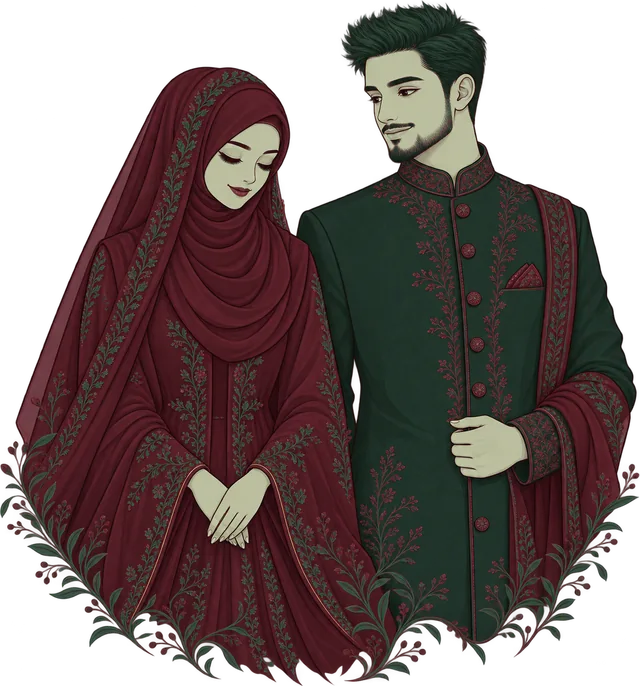
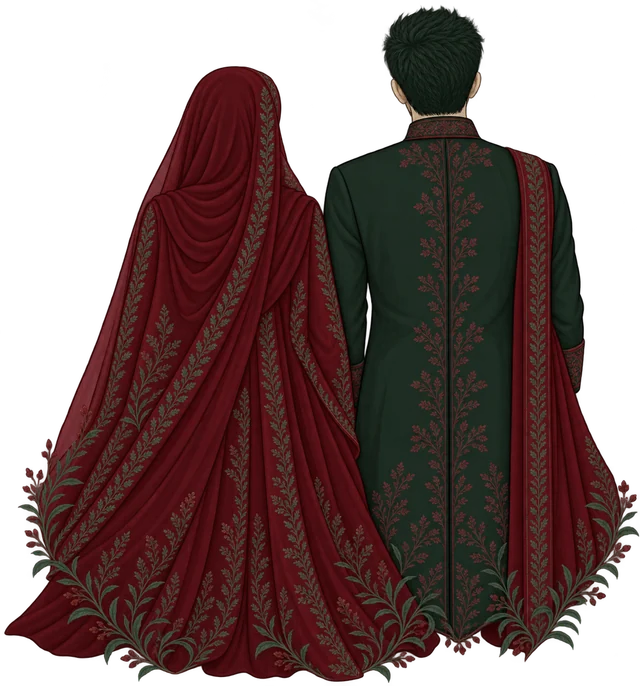
Add rear-view couple, dark sienna velvet and corner floral with optional music support

diff --git a/design/social-preview.html b/design/social-preview.html
@@ -1,4 +1,4 @@
-<!doctype html><html lang="en"><meta charset="utf-8"><style>
+<!DOCTYPE html><html lang="en"><head><meta charset="utf-8"><style>
  @font-face{font-family:Invitation;src:url(../public/fonts/cormorant-garamond-latin.woff2);font-weight:300 700}@font-face{font-family:Details;src:url(../public/fonts/inter-latin.woff2);font-weight:100 900}
- :root{--forest:#183e34;--sage:#b8c8ad;--paper:#edf1e8;--paper-deep:#e2e9dc;--maroon:#4d2030;--maroon-soft:#80515d;--maroon-line:#b28f97}*{box-sizing:border-box}body{margin:0;width:1200px;height:630px;background:var(--paper);color:var(--maroon);text-align:center;overflow:hidden;font-family:Invitation;position:relative}body:before{content:'';position:absolute;inset:15px;border:1px solid #b28f97}body:after{content:'';position:absolute;inset:22px;border:1px solid #d3dbcc}.hero-arch{position:absolute;left:270px;top:34px;width:660px;height:630px;color:var(--maroon-line);opacity:.65}.floral{position:absolute;width:275px;height:500px;top:45px}.left{left:-20px;transform:scaleX(-1)}.right{right:-20px}.content{position:relative;padding-top:130px}.eyebrow{font-family:Details;font-size:12px;letter-spacing:3px;margin:0 0 25px;color:var(--forest)}h1{font-weight:400;font-size:113px;line-height:1;margin:0;letter-spacing:-4px}h1 span{font-size:55px;vertical-align:9px;padding:0 12px;color:var(--forest)}.ornament{width:140px;height:28px;margin:27px auto 21px;color:var(--maroon-soft)}.date{font-size:44px;line-height:1.1;margin:0}.location{font-family:Details;font-size:11px;letter-spacing:2px;color:var(--forest);margin-top:18px}.footer{position:absolute;bottom:40px;width:100%;font-family:Details;font-size:9px;letter-spacing:3px;color:var(--forest)}
- @font-face{font-family:Names;src:url('../public/fonts/great-vibes-latin.woff2');font-weight:400}h1{font-family:Names;letter-spacing:0;font-size:104px}h1 span{font-size:50px}</style><svg class="hero-arch" viewBox="0 0 760 780" preserveAspectRatio="none" fill="none" aria-hidden="true"><path d="M29 779V316c0-99 48-142 142-172C282 108 344 67 380 13c36 54 98 95 209 131 94 30 142 73 142 172v463" stroke="currentColor" stroke-width="1"></path><path d="M40 779V319c0-93 44-135 135-164C286 119 346 81 380 33c34 48 94 86 205 122 91 29 135 71 135 164v460" stroke="currentColor" stroke-width=".5"></path><path d="m380 0 5 6-5 6-5-6 5-6Zm-368 370 17 17 17-17-17-17-17 17Zm702 0 17 17 17-17-17-17-17 17Z" fill="var(--paper)" stroke="currentColor" stroke-width=".7"></path></svg><svg class="floral left" viewBox="0 0 300 530" fill="none" aria-hidden="true"><g stroke="var(--forest)" stroke-width="1" stroke-linecap="round" stroke-linejoin="round"><path d="M21 531C100 438 65 327 125 241S233 100 237 0M77 399c48-30 78-66 99-113M99 304C77 259 57 229 26 204M147 208c-28-44-35-90-30-139M186 147c46-7 70-26 92-57M208 105c-24-37-34-69-30-105M92 352c39-10 72-22 104-46"></path><g fill="var(--sage)" fill-opacity=".76"><path d="M90 368c-30-12-42-39-40-71 29 15 41 40 40 71ZM83 408c25-35 51-39 81-43-14 27-40 42-81 43ZM102 302c-7-31 10-57 28-75 4 35-6 59-28 75ZM129 240c-30-8-51-29-52-56 29 7 47 26 52 56ZM164 182c13-32 35-45 66-49-13 31-33 43-66 49ZM200 118c-27-7-42-27-45-54 26 8 43 26 45 54ZM226 57c9-25 28-41 53-46-11 27-29 40-53 46ZM72 445c-33-5-48-21-54-46 27 5 45 21 54 46ZM117 321c23-2 44-12 59-35-28-1-46 11-59 35Z"></path></g><g fill="var(--paper-deep)"><path d="M115 104c-19-5-33-21-41-41 22 4 36 19 41 41ZM119 138c15-17 26-38 21-66-17 18-24 40-21 66ZM188 69c-19-10-30-28-31-50 21 10 31 26 31 50ZM248 112c6-25 21-40 42-47-4 24-18 39-42 47Z"></path></g></g><g transform="translate(132 207) rotate(-18)" stroke="var(--maroon)" stroke-width=".9"><path d="M0-15C-40-62-70-24-33 2c-52 6-41 51 1 36-13 48 32 64 43 18 28 41 67 13 34-20 50-6 43-51-3-39C58-47 14-62 0-15Z" fill="var(--maroon-soft)"></path><path d="M0-9C-28-36-44-13-22 5c-30 5-23 29 2 22-6 29 20 35 25 9 20 21 41 4 21-15 28-6 20-32-3-22C31-28 9-34 0-9Z" fill="var(--paper)"></path><path d="M1 3c-12-13-23 0-13 8-11 11 2 23 10 10 13 10 24-3 12-11C21-1 9-9 1 3Z" fill="var(--maroon-soft)"></path><path d="M-31-6-10 6m-23 27 22-14m18 28-4-24m33 12L13 18m30-25L16 7M8-32 5-8" opacity=".7"></path><circle cy="12" r="3" fill="var(--maroon)"></circle></g><g transform="translate(220 80) rotate(28) scale(.66)" stroke="var(--maroon)" stroke-width="1.1"><path d="M0-15C-40-62-70-24-33 2c-52 6-41 51 1 36-13 48 32 64 43 18 28 41 67 13 34-20 50-6 43-51-3-39C58-47 14-62 0-15Z" fill="var(--paper-deep)"></path><path d="M0-9C-28-36-44-13-22 5c-30 5-23 29 2 22-6 29 20 35 25 9 20 21 41 4 21-15 28-6 20-32-3-22C31-28 9-34 0-9Z" fill="var(--sage)"></path><path d="M1 3c-12-13-23 0-13 8-11 11 2 23 10 10 13 10 24-3 12-11C21-1 9-9 1 3Z" fill="var(--paper)"></path><circle cy="12" r="4" fill="var(--maroon)"></circle></g><g transform="translate(54 350) rotate(-18) scale(.61)" stroke="var(--maroon)" stroke-width="1.1"><path d="M0-15C-40-62-70-24-33 2c-52 6-41 51 1 36-13 48 32 64 43 18 28 41 67 13 34-20 50-6 43-51-3-39C58-47 14-62 0-15Z" fill="var(--paper-deep)"></path><path d="M0-9C-28-36-44-13-22 5c-30 5-23 29 2 22-6 29 20 35 25 9 20 21 41 4 21-15 28-6 20-32-3-22C31-28 9-34 0-9Z" fill="var(--maroon-soft)"></path><circle cy="12" r="5" fill="var(--paper)"></circle></g><g stroke="var(--maroon-soft)" stroke-width=".8"><path d="M150 276c35-15 63-18 87-8M182 269c1-15 7-25 19-28m-5 27c8-10 17-14 26-12M75 453c14 7 25 10 39 7M100 460c1-12 6-19 13-22"></path><ellipse cx="204" cy="240" rx="4" ry="8" transform="rotate(28 204 240)" fill="var(--maroon-line)"></ellipse><ellipse cx="228" cy="257" rx="8" ry="4" transform="rotate(-15 228 257)" fill="var(--maroon-line)"></ellipse><ellipse cx="241" cy="270" rx="7" ry="4" transform="rotate(15 241 270)" fill="var(--maroon-line)"></ellipse><ellipse cx="117" cy="435" rx="3" ry="6" transform="rotate(25 117 435)" fill="var(--maroon-line)"></ellipse></g></svg><svg class="floral right" viewBox="0 0 300 530" fill="none" aria-hidden="true"><g stroke="var(--forest)" stroke-width="1" stroke-linecap="round" stroke-linejoin="round"><path d="M21 531C100 438 65 327 125 241S233 100 237 0M77 399c48-30 78-66 99-113M99 304C77 259 57 229 26 204M147 208c-28-44-35-90-30-139M186 147c46-7 70-26 92-57M208 105c-24-37-34-69-30-105M92 352c39-10 72-22 104-46"></path><g fill="var(--sage)" fill-opacity=".76"><path d="M90 368c-30-12-42-39-40-71 29 15 41 40 40 71ZM83 408c25-35 51-39 81-43-14 27-40 42-81 43ZM102 302c-7-31 10-57 28-75 4 35-6 59-28 75ZM129 240c-30-8-51-29-52-56 29 7 47 26 52 56ZM164 182c13-32 35-45 66-49-13 31-33 43-66 49ZM200 118c-27-7-42-27-45-54 26 8 43 26 45 54ZM226 57c9-25 28-41 53-46-11 27-29 40-53 46ZM72 445c-33-5-48-21-54-46 27 5 45 21 54 46ZM117 321c23-2 44-12 59-35-28-1-46 11-59 35Z"></path></g><g fill="var(--paper-deep)"><path d="M115 104c-19-5-33-21-41-41 22 4 36 19 41 41ZM119 138c15-17 26-38 21-66-17 18-24 40-21 66ZM188 69c-19-10-30-28-31-50 21 10 31 26 31 50ZM248 112c6-25 21-40 42-47-4 24-18 39-42 47Z"></path></g></g><g transform="translate(132 207) rotate(-18)" stroke="var(--maroon)" stroke-width=".9"><path d="M0-15C-40-62-70-24-33 2c-52 6-41 51 1 36-13 48 32 64 43 18 28 41 67 13 34-20 50-6 43-51-3-39C58-47 14-62 0-15Z" fill="var(--maroon-soft)"></path><path d="M0-9C-28-36-44-13-22 5c-30 5-23 29 2 22-6 29 20 35 25 9 20 21 41 4 21-15 28-6 20-32-3-22C31-28 9-34 0-9Z" fill="var(--paper)"></path><path d="M1 3c-12-13-23 0-13 8-11 11 2 23 10 10 13 10 24-3 12-11C21-1 9-9 1 3Z" fill="var(--maroon-soft)"></path><path d="M-31-6-10 6m-23 27 22-14m18 28-4-24m33 12L13 18m30-25L16 7M8-32 5-8" opacity=".7"></path><circle cy="12" r="3" fill="var(--maroon)"></circle></g><g transform="translate(220 80) rotate(28) scale(.66)" stroke="var(--maroon)" stroke-width="1.1"><path d="M0-15C-40-62-70-24-33 2c-52 6-41 51 1 36-13 48 32 64 43 18 28 41 67 13 34-20 50-6 43-51-3-39C58-47 14-62 0-15Z" fill="var(--paper-deep)"></path><path d="M0-9C-28-36-44-13-22 5c-30 5-23 29 2 22-6 29 20 35 25 9 20 21 41 4 21-15 28-6 20-32-3-22C31-28 9-34 0-9Z" fill="var(--sage)"></path><path d="M1 3c-12-13-23 0-13 8-11 11 2 23 10 10 13 10 24-3 12-11C21-1 9-9 1 3Z" fill="var(--paper)"></path><circle cy="12" r="4" fill="var(--maroon)"></circle></g><g transform="translate(54 350) rotate(-18) scale(.61)" stroke="var(--maroon)" stroke-width="1.1"><path d="M0-15C-40-62-70-24-33 2c-52 6-41 51 1 36-13 48 32 64 43 18 28 41 67 13 34-20 50-6 43-51-3-39C58-47 14-62 0-15Z" fill="var(--paper-deep)"></path><path d="M0-9C-28-36-44-13-22 5c-30 5-23 29 2 22-6 29 20 35 25 9 20 21 41 4 21-15 28-6 20-32-3-22C31-28 9-34 0-9Z" fill="var(--maroon-soft)"></path><circle cy="12" r="5" fill="var(--paper)"></circle></g><g stroke="var(--maroon-soft)" stroke-width=".8"><path d="M150 276c35-15 63-18 87-8M182 269c1-15 7-25 19-28m-5 27c8-10 17-14 26-12M75 453c14 7 25 10 39 7M100 460c1-12 6-19 13-22"></path><ellipse cx="204" cy="240" rx="4" ry="8" transform="rotate(28 204 240)" fill="var(--maroon-line)"></ellipse><ellipse cx="228" cy="257" rx="8" ry="4" transform="rotate(-15 228 257)" fill="var(--maroon-line)"></ellipse><ellipse cx="241" cy="270" rx="7" ry="4" transform="rotate(15 241 270)" fill="var(--maroon-line)"></ellipse><ellipse cx="117" cy="435" rx="3" ry="6" transform="rotate(25 117 435)" fill="var(--maroon-line)"></ellipse></g></svg><div class="content"><p class="eyebrow">THE NIKAH CEREMONY</p><h1>Rahnuma <span>&</span> Fahad</h1><svg class="ornament hero-ornament" width="166" height="25" viewBox="0 0 166 25" fill="none" aria-hidden="true"><path d="M0 12.5h55m56 0h55M63 12.5c10 0 14-5 20-12 6 7 10 12 20 12-10 0-14 5-20 12-6-7-10-12-20-12Z" stroke="currentColor" stroke-width=".7"></path><path d="m83 7 5.5 5.5L83 18l-5.5-5.5L83 7Z" stroke="currentColor" stroke-width=".7"></path><circle cx="59" cy="12.5" r="1" fill="currentColor"></circle><circle cx="107" cy="12.5" r="1" fill="currentColor"></circle></svg><p class="date">12 November 2026</p><p class="location">AMAN PARK, NEW DELHI · 6:00 PM IST</p></div><p class="footer">WITH FAITH, WITH LOVE</p></html>
+ :root{--forest:#183e34;--sage:#b8c8ad;--paper:#edf1e8;--paper-deep:#e2e9dc;--maroon:#4d0000;--maroon-soft:#80515d;--maroon-line:#b28f97}*{box-sizing:border-box}body{margin:0;width:1200px;height:630px;background:var(--paper);color:var(--maroon);text-align:center;overflow:hidden;font-family:Invitation;position:relative}body:before{content:'';position:absolute;inset:15px;border:1px solid #b28f97}body:after{content:'';position:absolute;inset:22px;border:1px solid #d3dbcc}.hero-arch{position:absolute;left:270px;top:34px;width:660px;height:630px;color:var(--maroon-line);opacity:.65}.floral{position:absolute;width:275px;height:500px;top:45px}.left{left:-20px;transform:scaleX(-1)}.right{right:-20px}.content{position:relative;padding-top:130px}.eyebrow{font-family:Details;font-size:12px;letter-spacing:3px;margin:0 0 25px;color:var(--forest)}h1{font-weight:400;font-size:113px;line-height:1;margin:0;letter-spacing:-4px}h1 span{font-size:55px;vertical-align:9px;padding:0 12px;color:var(--forest)}.ornament{width:140px;height:28px;margin:27px auto 21px;color:var(--maroon-soft)}.date{font-size:44px;line-height:1.1;margin:0}.location{font-family:Details;font-size:11px;letter-spacing:2px;color:var(--forest);margin-top:18px}.footer{position:absolute;bottom:40px;width:100%;font-family:Details;font-size:9px;letter-spacing:3px;color:var(--forest)}
+ @font-face{font-family:Names;src:url('../public/fonts/great-vibes-latin.woff2');font-weight:400}h1{font-family:Names;letter-spacing:0;font-size:104px}h1 span{font-size:50px}</style><style>.hero-corner-floral{position:absolute;width:305px;height:305px;left:27px;top:27px;opacity:.88}</style></head><body><svg class="hero-corner-floral" viewBox="0 0 460 460" fill="none" aria-hidden="true"><g stroke="var(--forest)" stroke-width="1" stroke-linecap="round" stroke-linejoin="round"><path d="M29 429C44 332 9 206 45 93 73 5 263 43 430 26M35 329c29-36 39-69 43-105M34 262C9 238 8 206 13 183M43 177c28-21 43-44 48-70M155 37c32 22 58 27 93 23M234 37c23-22 56-26 84-23M319 33c31 19 61 18 92 9"></path><g fill="var(--sage)" fill-opacity=".7"><path d="M33 368c-20-19-24-43-17-67 20 16 24 39 17 67ZM39 316c27-15 40-36 41-62-27 13-40 35-41 62ZM33 252c-19-14-27-37-21-59 19 13 27 33 21 59ZM47 189c27-12 39-31 41-55-25 11-37 29-41 55ZM111 41c17-20 39-26 62-20-16 20-36 26-62 20ZM196 41c15 20 37 27 61 22-15-21-36-28-61-22ZM276 33c16-21 39-27 64-21-17 20-38 27-64 21ZM355 31c17 19 41 24 65 15-19-16-40-21-65-15Z"></path></g><g stroke-width=".6" opacity=".65"><path d="m33 368-11-48m17-4 31-46m-37-18-16-45m30-18 33-42m31-106 45-14m40 14 45 17m35-25 48-15m31 13 49 13"></path></g></g><g transform="translate(63 68) rotate(-18)" stroke="var(--maroon)" stroke-width=".85"><path d="M0-15C-40-62-70-24-33 2c-52 6-41 51 1 36-13 48 32 64 43 18 28 41 67 13 34-20 50-6 43-51-3-39C58-47 14-62 0-15Z" fill="var(--maroon-soft)"></path><path d="M0-9C-28-36-44-13-22 5c-30 5-23 29 2 22-6 29 20 35 25 9 20 21 41 4 21-15 28-6 20-32-3-22C31-28 9-34 0-9Z" fill="var(--paper)"></path><path d="M1 3c-12-13-23 0-13 8-11 11 2 23 10 10 13 10 24-3 12-11C21-1 9-9 1 3Z" fill="var(--sage)"></path><path d="M-31-6-10 6m-23 27 22-14m18 28-4-24m33 12L13 18m30-25L16 7M8-32 5-8"></path><circle cy="12" r="3" fill="var(--maroon)"></circle></g><g transform="translate(195 40) scale(.6)" stroke="var(--maroon)" stroke-width="1.1"><path d="M0-15C-40-62-70-24-33 2c-52 6-41 51 1 36-13 48 32 64 43 18 28 41 67 13 34-20 50-6 43-51-3-39C58-47 14-62 0-15Z" fill="var(--paper-deep)"></path><path d="M0-9C-28-36-44-13-22 5c-30 5-23 29 2 22-6 29 20 35 25 9 20 21 41 4 21-15 28-6 20-32-3-22C31-28 9-34 0-9Z" fill="var(--sage)"></path><circle cy="12" r="5" fill="var(--maroon)"></circle></g><g transform="translate(35 207) rotate(24) scale(.58)" stroke="var(--maroon)" stroke-width="1.1"><path d="M0-15C-40-62-70-24-33 2c-52 6-41 51 1 36-13 48 32 64 43 18 28 41 67 13 34-20 50-6 43-51-3-39C58-47 14-62 0-15Z" fill="var(--paper-deep)"></path><path d="M0-9C-28-36-44-13-22 5c-30 5-23 29 2 22-6 29 20 35 25 9 20 21 41 4 21-15 28-6 20-32-3-22C31-28 9-34 0-9Z" fill="var(--maroon-soft)"></path><circle cy="12" r="5" fill="var(--paper)"></circle></g></svg><svg class="hero-arch" viewBox="0 0 760 780" preserveAspectRatio="none" fill="none" aria-hidden="true"><path d="M29 779V316c0-99 48-142 142-172C282 108 344 67 380 13c36 54 98 95 209 131 94 30 142 73 142 172v463" stroke="currentColor" stroke-width="1"></path><path d="M40 779V319c0-93 44-135 135-164C286 119 346 81 380 33c34 48 94 86 205 122 91 29 135 71 135 164v460" stroke="currentColor" stroke-width=".5"></path><path d="m380 0 5 6-5 6-5-6 5-6Zm-368 370 17 17 17-17-17-17-17 17Zm702 0 17 17 17-17-17-17-17 17Z" fill="var(--paper)" stroke="currentColor" stroke-width=".7"></path></svg><div class="content"><p class="eyebrow">THE NIKAH CEREMONY</p><h1>Rahnuma <span>&amp;</span> Fahad</h1><svg class="ornament hero-ornament" width="166" height="25" viewBox="0 0 166 25" fill="none" aria-hidden="true"><path d="M0 12.5h55m56 0h55M63 12.5c10 0 14-5 20-12 6 7 10 12 20 12-10 0-14 5-20 12-6-7-10-12-20-12Z" stroke="currentColor" stroke-width=".7"></path><path d="m83 7 5.5 5.5L83 18l-5.5-5.5L83 7Z" stroke="currentColor" stroke-width=".7"></path><circle cx="59" cy="12.5" r="1" fill="currentColor"></circle><circle cx="107" cy="12.5" r="1" fill="currentColor"></circle></svg><p class="date">12 November 2026</p><p class="location">AMAN PARK, NEW DELHI · 6:00 PM IST</p></div><p class="footer">WITH FAITH, WITH LOVE</p></body></html>

diff --git a/src/styles/global.css b/src/styles/global.css
@@ -49,12 +49,11 @@ body{position:relative}
 .hero-scroll{position:absolute;bottom:25px;left:50%;transform:translateX(-50%);display:flex;flex-direction:column;align-items:center;text-decoration:none;gap:13px;min-height:44px;font-size:8px;letter-spacing:.22em;white-space:nowrap;color:var(--green-muted)}
 .hero-scroll svg{height:24px}
 .hero-side-note{position:absolute;left:37px;top:51%;writing-mode:vertical-rl;transform:rotate(180deg);font-size:8px;letter-spacing:.23em;color:var(--green-muted)}
-.hero-floral{position:absolute;width:clamp(210px,24vw,350px);height:auto;top:1px;z-index:-1;opacity:.88}
-.hero-floral-left{left:0;transform:scaleX(-1) rotate(8deg)}
-.hero-floral-right{right:0;transform:rotate(8deg)}
+.hero-corner-floral{position:absolute;width:clamp(230px,27vw,380px);height:auto;top:7px;left:16px;z-index:-1;opacity:.88;pointer-events:none}
+.invitation,.closing,.button-maroon,.skip-link{background-image:var(--velvet-texture),linear-gradient(110deg,#20000022,transparent 40%,#a3333314 73%,#20000022);background-size:180px 180px,100% 100%}
 .section-inner{max-width:1080px;margin:auto;padding-right:32px;padding-left:32px;text-align:center}
-.section-dark{background:var(--forest);color:var(--paper)}
-.invitation{padding:var(--section-space) 24px;position:relative;background:var(--maroon)}
+.section-dark{background-color:var(--forest);color:var(--paper)}
+.invitation{padding:var(--section-space) 24px;position:relative;background-color:var(--maroon)}
 .invitation:before,.invitation:after{content:'';position:absolute;inset:20px;border:1px solid color-mix(in srgb,var(--sage) 23%,transparent);pointer-events:none}
 .invitation:after{inset:26px;border-color:color-mix(in srgb,var(--sage) 10%,transparent)}
 .section-dark .ornament{color:var(--sage)}
@@ -96,7 +95,7 @@ blockquote footer{font-size:9px;letter-spacing:.045em;color:var(--green-muted);l
 .venue-heading span{display:block;font-family:var(--sans);font-size:11px;color:var(--green-muted);margin-top:7px;letter-spacing:.05em}
 .actions{display:flex;justify-content:center;gap:12px;flex-wrap:wrap}
 .button{display:inline-flex;align-items:center;justify-content:center;gap:12px;min-height:50px;padding:15px 23px;font-size:11px;line-height:1.5;letter-spacing:.02em;text-decoration:none;transition:background .2s,color .2s,border-color .2s;border:1px solid transparent}
-.button-maroon{background:var(--maroon);color:var(--paper)}
+.button-maroon{background-color:var(--maroon);color:var(--paper)}
 .button-maroon:hover{background:var(--forest)}
 .button-outline{border-color:var(--maroon-line);background:transparent}
 .button-outline:hover{background:var(--paper-deep);border-color:var(--maroon)}
@@ -113,7 +112,7 @@ blockquote footer{font-size:9px;letter-spacing:.045em;color:var(--green-muted);l
 .venue-copy>p:not([class]){font-family:var(--serif);font-size:20px;line-height:1.5;color:var(--green-muted)}
 .text-link{display:inline-flex;align-items:center;gap:15px;font-size:10px;min-height:48px;margin-top:20px;text-decoration:none;border-bottom:var(--hairline);transition:gap .2s}
 .text-link:hover{gap:22px}
-.closing{position:relative;isolation:isolate;overflow:hidden;text-align:center;padding:90px 30px 72px;background:var(--maroon)}
+.closing{position:relative;isolation:isolate;overflow:hidden;text-align:center;padding:90px 30px 72px;background-color:var(--maroon)}
 .closing-inner{max-width:820px;margin:auto}
 .closing .eyebrow{color:var(--sage);margin:24px 0 26px}
 .closing h2{font-size:clamp(2.2rem,4vw,3.25rem);line-height:1.2;margin-bottom:24px}
@@ -135,7 +134,7 @@ blockquote footer{font-size:9px;letter-spacing:.045em;color:var(--green-muted);l
 .back-top{font-size:8px;letter-spacing:.15em;text-decoration:none;display:flex;align-items:center;gap:14px;min-height:44px}
 .back-top>span{font-size:20px}
 @media(min-width:1100px) and (min-height:850px){.hero{padding-top:80px}.hero-occasion{margin-bottom:17px}.hero-blessing{margin-bottom:28px}.hero-ornament{margin-top:30px;margin-bottom:20px}.hero-date{font-size:43px}}
-@media(max-width:850px){.hero-side-note{display:none}.hero-floral{width:225px;opacity:.65}.hero-floral-left{left:-60px}.hero-floral-right{right:-60px}.hero-arch{width:85%}.hero{min-height:735px}.masthead{padding:0 32px}.venue-section{gap:35px}.date-composition{gap:20px}.date-side{width:155px}.venue-art{min-height:300px;padding:15px}.venue-copy .eyebrow{max-width:230px}.page-footer{padding:24px 32px}.page-footer p{letter-spacing:.08em}.page-footer p span{margin:0 8px}}
+@media(max-width:850px){.hero-side-note{display:none}.hero-corner-floral{width:240px;left:10px}.hero-arch{width:85%}.hero{min-height:735px}.masthead{padding:0 32px}.venue-section{gap:35px}.date-composition{gap:20px}.date-side{width:155px}.venue-art{min-height:300px;padding:15px}.venue-copy .eyebrow{max-width:230px}.page-footer{padding:24px 32px}.page-footer p{letter-spacing:.08em}.page-footer p span{margin:0 8px}}
 @media(max-width:600px){
   .page-frame{inset:8px 8px auto;height:calc(100% - 16px)}
   .masthead{height:66px;padding:0 25px;gap:10px}
@@ -143,7 +142,7 @@ blockquote footer{font-size:9px;letter-spacing:.045em;color:var(--green-muted);l
   .masthead-message{display:none}.masthead-date{font-size:8px;letter-spacing:.17em;gap:9px}
   .hero{min-height:615px;height:calc(100svh - 66px);max-height:765px;padding:63px 23px 90px;align-items:center}
   .hero-arch{width:calc(100% - 43px);top:7px;height:calc(100% - 64px)}
-  .hero-floral{width:155px;top:2px;opacity:.73}.hero-floral-left{left:-59px}.hero-floral-right{right:-59px}
+  .hero-corner-floral{width:170px;top:9px;left:12px;opacity:.8}
   .bismillah{font-size:29px;line-height:1.8}
   .bismillah-translation{font-size:12px;max-width:240px;line-height:1.5;margin:0 auto 22px}
   .hero-blessing{font-size:6.5px;letter-spacing:.12em;line-height:1.9;max-width:240px;margin:0 auto 19px}
@@ -192,6 +191,6 @@ blockquote footer{font-size:9px;letter-spacing:.045em;color:var(--green-muted);l
   .page-footer{padding:25px 28px 29px;flex-wrap:wrap;gap:5px 10px;min-height:140px}.footer-monogram{font-size:28px;min-width:60px}.page-footer p{order:3;width:100%;font-size:6.5px;letter-spacing:.1em;margin-top:5px;text-align:center}.page-footer p span{margin:0 9px}.back-top{font-size:7px;gap:10px}
 }
 @media(max-width:359px){.hero{padding-left:19px;padding-right:19px;min-height:590px;padding-top:54px}.hero-arch{width:calc(100% - 32px)}.bismillah{font-size:26px}.hero-blessing{max-width:220px;font-size:6px}.hero-place{font-size:9px}.hero-date{font-size:28px}.hero-occasion{font-size:20px}.couple-names{font-size:11.5vw}.bismillah-translation{font-size:11px;margin-bottom:19px}.hero-ornament{margin-top:18px;margin-bottom:13px}.hero-scroll{font-size:6px}.section-inner{padding-left:18px;padding-right:18px}.invitation h2{font-size:36px}.family-details{gap:14px}.family-details strong{font-size:16px}.verse-section{padding-left:18px;padding-right:18px}.celebration h2{font-size:34px}.actions{gap:8px}.button{font-size:9px;padding:13px 11px}.venue-section{padding:0 25px}.closing{padding-left:25px;padding-right:25px}.closing h2{font-size:29px}.closing-family{font-size:23px}}
-@media(prefers-reduced-motion:no-preference){.hero-content{animation:arrive .8s ease-out both}.hero-floral{animation:botanical-appear 1.2s ease-out both}@keyframes arrive{from{opacity:.75;transform:translateY(6px)}to{opacity:1;transform:translateY(0)}}@keyframes botanical-appear{from{opacity:.3}to{opacity:.88}}}
+@media(prefers-reduced-motion:no-preference){.hero-content{animation:arrive .8s ease-out both}.hero-corner-floral{animation:botanical-appear 1.2s ease-out both}@keyframes arrive{from{opacity:.75;transform:translateY(6px)}to{opacity:1;transform:translateY(0)}}@keyframes botanical-appear{from{opacity:.3}to{opacity:.88}}}
 @media(prefers-reduced-motion:reduce){html{scroll-behavior:auto}*,*::before,*::after{animation:none!important;transition:none!important}}
 @media print{.masthead,.hero-scroll,.page-frame,.page-footer,.share-invitation,.sharing-note{display:none!important}.hero{height:auto;min-height:700px;break-after:page}.section-dark{print-color-adjust:exact}.button{border:1px solid currentColor}.page-frame{border:0}section{break-inside:avoid}}

diff --git a/src/scripts/invitation-music.ts b/src/scripts/invitation-music.ts
@@ -1,0 +1,108 @@
+/** Optional native audio. Browsers may require the dedicated play button. */
+const musicRoot = document.querySelector<HTMLElement>('[data-invitation-music]');
+
+if (musicRoot) {
+  const audio = musicRoot.querySelector<HTMLAudioElement>('[data-music-audio]');
+  const toggle = musicRoot.querySelector<HTMLButtonElement>('[data-music-toggle]');
+  const label = musicRoot.querySelector<HTMLElement>('[data-music-label]');
+  const playIcon = musicRoot.querySelector<SVGElement>('[data-music-play]');
+  const pauseIcon = musicRoot.querySelector<SVGElement>('[data-music-pause]');
+  const status = musicRoot.querySelector<HTMLElement>('[data-music-status]');
+
+  if (audio && toggle && label && playIcon && pauseIcon && status) {
+    const trackTitle = musicRoot.dataset.trackTitle ?? 'Invitation music';
+    let manuallyPaused = false;
+    let unavailable = false;
+    let playRequested = false;
+    let requestVersion = 0;
+    audio.volume = 0.28;
+
+    function showPlaybackState(playing: boolean) {
+      if (unavailable) return;
+      const action = playing ? 'Pause music' : 'Play music';
+      label!.textContent = action;
+      toggle!.setAttribute('aria-label', `${action}: ${trackTitle}`);
+      toggle!.setAttribute('aria-pressed', String(playing));
+      playIcon!.toggleAttribute('hidden', playing);
+      pauseIcon!.toggleAttribute('hidden', !playing);
+    }
+
+    function showUnavailable() {
+      if (unavailable) return;
+      unavailable = true;
+      requestVersion += 1;
+      playRequested = false;
+      audio!.pause();
+      label!.textContent = 'Music unavailable';
+      toggle!.setAttribute('aria-label', `${trackTitle}: music unavailable`);
+      toggle!.setAttribute('aria-pressed', 'false');
+      toggle!.disabled = true;
+      playIcon!.removeAttribute('hidden');
+      pauseIcon!.setAttribute('hidden', '');
+      status!.textContent = 'The invitation music could not be loaded.';
+    }
+
+    async function requestPlayback(automatic = false) {
+      if (unavailable || (automatic && manuallyPaused)) return;
+      playRequested = true;
+      const currentRequest = ++requestVersion;
+      try {
+        await audio!.play();
+        if (currentRequest !== requestVersion || manuallyPaused) return;
+        playRequested = false;
+        showPlaybackState(!audio!.paused);
+      } catch (error) {
+        if (currentRequest !== requestVersion || unavailable) return;
+        playRequested = false;
+        const errorName = error instanceof DOMException ? error.name : '';
+        if (errorName === 'NotAllowedError' || errorName === 'AbortError') {
+          showPlaybackState(false);
+          status!.textContent = errorName === 'NotAllowedError'
+            ? `Select Play music to listen to ${trackTitle}.`
+            : 'Music is paused.';
+          return;
+        }
+        showUnavailable();
+      }
+    }
+
+    audio.addEventListener('playing', () => {
+      if (manuallyPaused || unavailable) {
+        audio.pause();
+        return;
+      }
+      playRequested = false;
+      showPlaybackState(true);
+      status.textContent = `Playing ${trackTitle}.`;
+    });
+    audio.addEventListener('pause', () => {
+      playRequested = false;
+      showPlaybackState(false);
+      if (!unavailable) status.textContent = 'Music is paused.';
+    });
+    audio.addEventListener('error', showUnavailable);
+
+    toggle.addEventListener('click', () => {
+      if (unavailable) return;
+      if (!audio.paused || playRequested) {
+        manuallyPaused = true;
+        requestVersion += 1;
+        playRequested = false;
+        audio.pause();
+        showPlaybackState(false);
+      } else {
+        manuallyPaused = false;
+        void requestPlayback();
+      }
+    });
+
+    toggle.hidden = false;
+    if (document.readyState === 'complete') {
+      void requestPlayback(true);
+    } else {
+      window.addEventListener('load', () => void requestPlayback(true), { once: true });
+    }
+  }
+}
+
+export {};

diff --git a/src/styles/tokens.css b/src/styles/tokens.css
@@ -3,7 +3,7 @@
   color-scheme: light;
   --paper: #edf1e8;
   --paper-deep: #e2e9dc;
-  --maroon: #4d2030;
+  --maroon: #4d0000;
   --maroon-soft: #80515d;
   --maroon-line: #b28f97;
   --forest: #183e34;
@@ -17,4 +17,5 @@
   --page-width: 1280px;
   --section-space: clamp(4.5rem, 9vw, 8rem);
   --hairline: 1px solid color-mix(in srgb, var(--maroon) 23%, transparent);
+  --velvet-texture: url('/textures/velvet.svg');
 }

diff --git a/src/data/music.ts b/src/data/music.ts
@@ -1,0 +1,5 @@
+/** Add the supplied recording to public/audio and set its local path here. */
+export const invitationMusic = Object.freeze({
+  title: 'Lam Yati Nazeero Kafi Nazarin',
+  audioSource: '',
+});

diff --git a/design/DESIGN-SYSTEM.md b/design/DESIGN-SYSTEM.md
@@ -10,7 +10,7 @@ Every visible color is a shade of maroon or green. All authoritative values are 
 | --- | --- | --- |
 | `--paper` | `#edf1e8` | Pale sage stationery |
 | `--paper-deep` | `#e2e9dc` | Architectural illustration ground |
-| `--maroon` | `#4d2030` | Names, headings, primary actions, invitation and closing panels |
+| `--maroon` | `#4d0000` | Dark sienna names, headings, primary actions, velvet invitation and closing panels |
 | `--maroon-soft` | `#80515d` | Floral petals and ornament strokes |
 | `--maroon-line` | `#b28f97` | Fine borders and architectural arch |
 | `--forest` | `#183e34` | Botanical stems and supporting green accents |
@@ -23,7 +23,7 @@ Every visible color is a shade of maroon or green. All authoritative values are 
 
 Self-hosted Great Vibes forms the couple's and parents' names. Cormorant Garamond variable normal and italic form the editorial headings, quotes, and date numerals. Inter variable is reserved for labels, practical details, and controls. Amiri renders the exact Arabic opening; the included subset is specific to that text.
 
-Use the paired Mughal arch lines, corner florals, thin double stationery borders, central rosette separators, and illustrated architecture. The date is always prominent. Content order is a centered arch hero, dark family invitation, scriptural excerpt, ceremonial date composition, location, maroon closing, and monogram footer. Names and date must be readable immediately on a narrow phone.
+Use the paired Mughal arch lines, one upper-left L-shaped floral arrangement, thin double stationery borders, central rosette separators, and illustrated architecture. Dark sienna panels use the lightweight local velvet texture; the couple illustration shows both people from behind. The date is always prominent. Content order is a centered arch hero, dark family invitation, scriptural excerpt, ceremonial date composition, location, maroon closing, and monogram footer. Names and date must be readable immediately on a narrow phone.
 
 Controls are rectangular, at least 50 px high, with a solid maroon primary action and fine-line secondary action. Use restrained opacity/translation entrance motion, immediate content, and the existing reduced-motion override.
 

diff --git a/README.md b/README.md
@@ -17,7 +17,7 @@ npm run validate
 npm run preview
 ```
 
-Astro generates the complete invitation in `dist/index.html`. It has no client framework, backend, database, cookies, analytics, external font requests, or map embeds. The invitation, directions, and `.ics` download work with JavaScript disabled. The small external script enables WhatsApp sharing with the current page URL.
+Astro generates the complete invitation in `dist/index.html`. It has no client framework, backend, database, cookies, analytics, external font requests, or map embeds. The invitation, directions, and `.ics` download work with JavaScript disabled. Small external scripts enable WhatsApp sharing with the current page URL and optional invitation music.
 
 For sandboxed environments whose default home directory is read-only, use `npm ci --cache /tmp/rahnuma-npm-cache` and set `ASTRO_TELEMETRY_DISABLED=1` before Astro commands. Use the existing checkout; a separate Git worktree is unnecessary.
 
@@ -40,6 +40,7 @@ Never set `SITE_URL` to a sample or development address in production. Without a
 ## Content and identity
 
 - `src/data/event.ts`: exact event data and bride-first WhatsApp message.
+- `src/data/music.ts`: optional requested recording. Add the supplied audio to `public/audio/` and set `audioSource` to its local path. No recording has been supplied or bundled. The music control renders only when a source is configured, attempts playback on opening, and offers a Play Music button when the browser requires a tap. Guests can pause playback.
 - `src/pages/index.astro`: complete invitation, Arabic Bismillah, and metadata.
 - `src/styles/tokens.css`: the complete shared maroon-and-green palette and typography.
 - `src/styles/global.css`: responsive composition, motion, and control styles.
